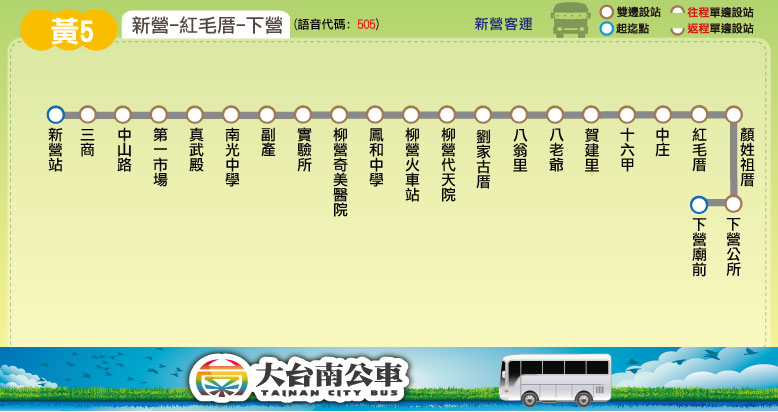
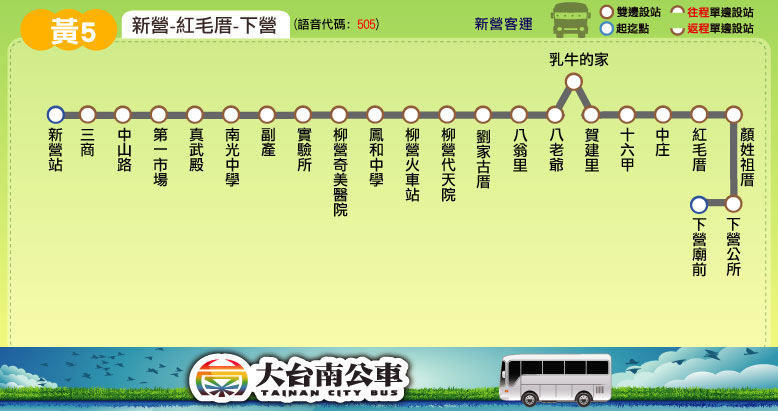
新增站位：黃5(增「乳牛的家」)；調整中途站點時刻：7408

diff --git a/route/fare_and_time/highway_bus_7408.js b/route/fare_and_time/highway_bus_7408.js
@@ -35,7 +35,7 @@ highway_bus_7408_fare = [
 // [time, other] or
 // [time, start_stop, end_stop, other]
 highway_bus_7408_main_stop_name = ["新營","鹽水<br />分駐所","義竹","新塭","南鯤鯓<br />(代天府)","好美里"];
-highway_bus_7408_main_stop_time_consume = [0,21,27,48,57,70];
+highway_bus_7408_main_stop_time_consume = [0,24,30,48,56,67];
 highway_bus_7408_important_stop = [0, 1, 4, 5]; // 新營, 鹽水分駐所, 南鯤鯓(代天府), 好美里
 highway_bus_7408_time_go = [["07:00"],["08:00"],["09:20"],["11:10",['L']],["12:40"],["14:25"],["17:30"],["18:40"]];
 highway_bus_7408_time_return = [["06:00"],["08:15"],["09:15"],["10:35"],["12:25",['L']],["13:55"],["15:40"],["18:45"]];

diff --git a/route/fare_and_time/yellow_5.js b/route/fare_and_time/yellow_5.js
@@ -3,7 +3,7 @@ yellow_5_interval_stop = [ // 2017.01.07 checked
 ["新營站","三商","中山路","第一市場","真武殿","南光中學"], // 新營
 ["副產","實驗所"], // 副產
 ["柳營奇美醫院","鳳和中學","柳營火車站","柳營代天院","劉家古厝"], // 柳營火車站
-["八翁里","八老爺","賀建里"], // 八老爺
+["八翁里","八老爺","乳牛的家","賀建里"], // 八老爺
 ["十六甲","中庄"], // 中庄
 ["紅毛厝","顏姓祖厝","下營公所","下營廟前"] // 下營
 ];
